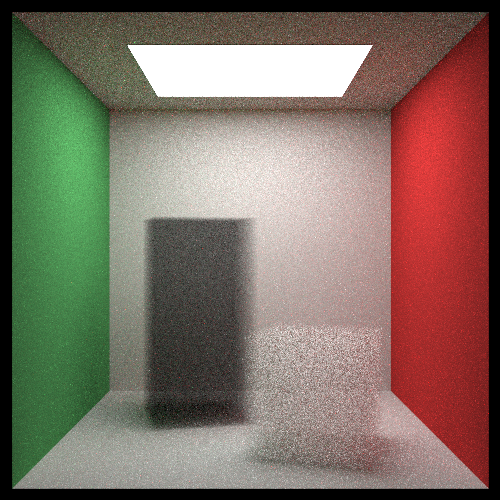
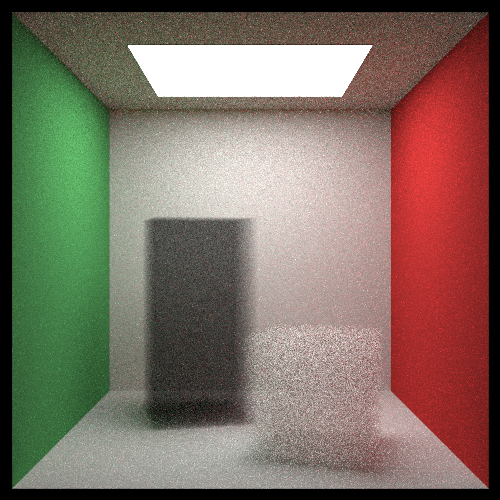
update raywpf, add nff files

diff --git a/RayWpf/MainWindow.xaml.cs b/RayWpf/MainWindow.xaml.cs
@@ -29,17 +29,17 @@ namespace RayWpf
     private void RenderButton_OnClick(object sender, RoutedEventArgs e)
     {
       int numThreads = Environment.ProcessorCount;
-      const int ImageWidth = 100;
-      const int ImageHeight = 100;
+      const int ImageWidth = 500;
+      const int ImageHeight = 500;
       const int RayTraceDepth = 50;
-      const int NumSamples = 100;
+      const int NumSamples = 1000;
       var renderConfig = new RenderConfig(numThreads, RayTraceDepth, NumSamples)
       {
         TwoPhase = false
       };
 
-      // var scene = new CornellBoxScene();
-      var scene = NffParser.ParseFile(Path.Combine(NffDirectory, "mountain.nff"), ImageWidth, ImageHeight);
+      var scene = new CornellBoxScene();
+      // var scene = NffParser.ParseFile(Path.Combine(NffDirectory, "balls5.nff"), ImageWidth, ImageHeight);
 
       var pixelBuffer = new WpfPixelBuffer(Dispatcher, ImageWidth, ImageHeight);
       RenderImage.Source = pixelBuffer.WriteableBitmap;
